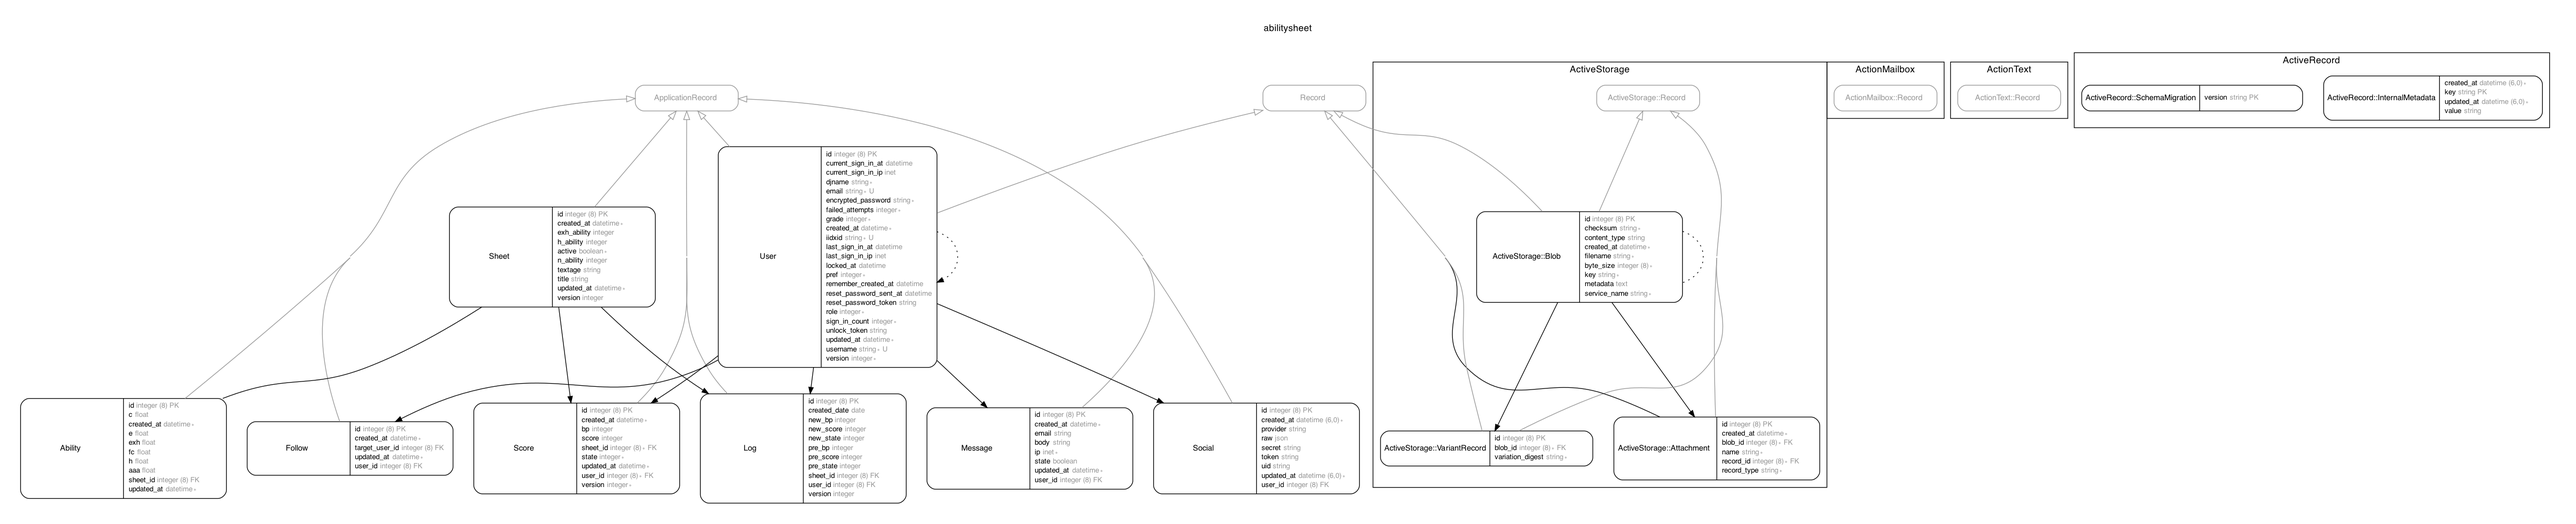
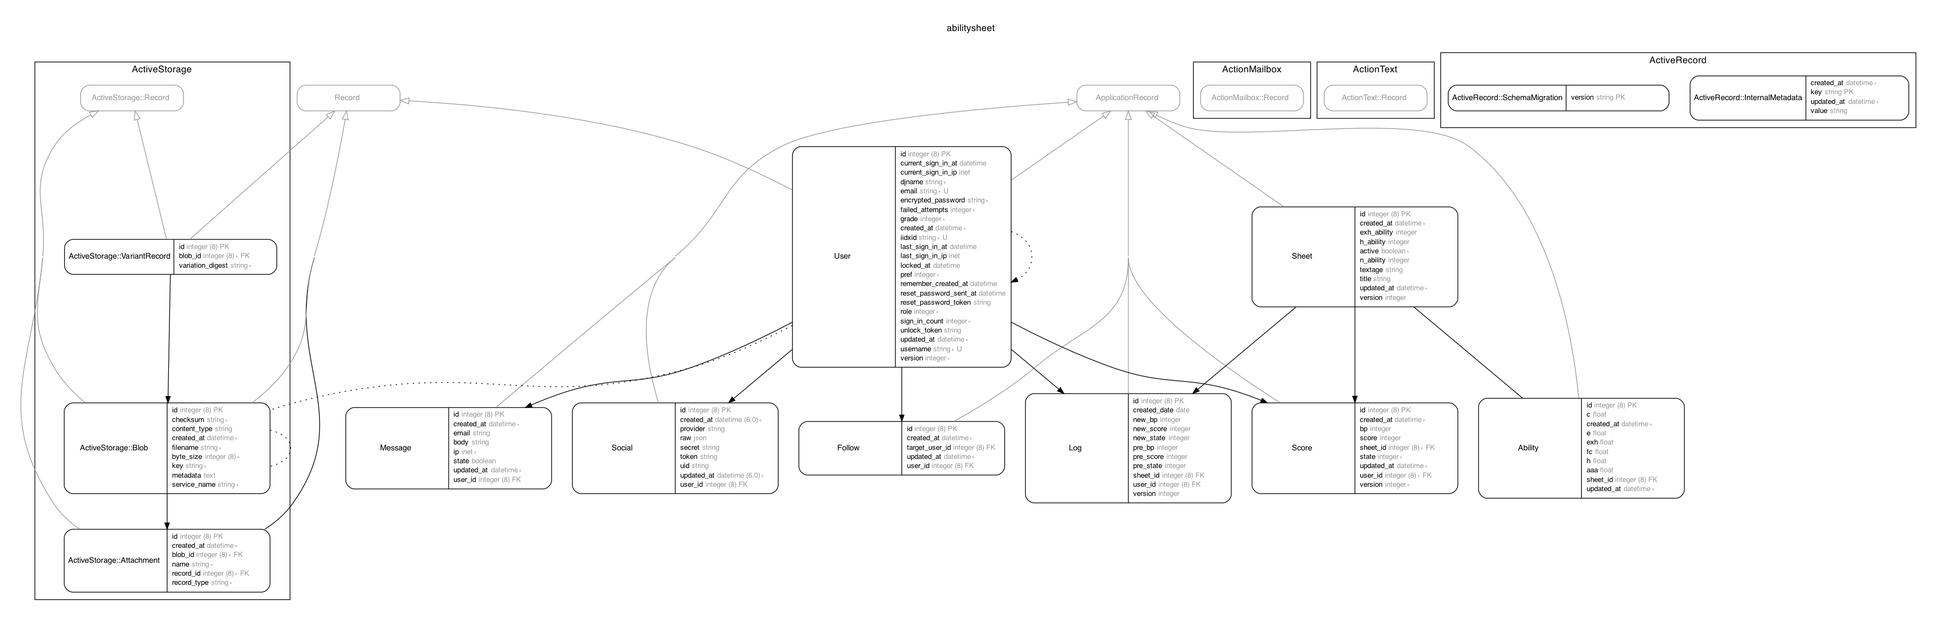
[#1475] [command] rails db:migrate

diff --git a/db/schema.rb b/db/schema.rb
@@ -10,8 +10,7 @@
 #
 # It's strongly recommended that you check this file into your version control system.
 
-ActiveRecord::Schema[6.1].define(version: 2020_12_26_130258) do
-
+ActiveRecord::Schema[7.0].define(version: 2022_09_21_122558) do
   # These are extensions that must be enabled in order to support this database
   enable_extension "plpgsql"
 
@@ -23,8 +22,8 @@ ActiveRecord::Schema[6.1].define(version: 2020_12_26_130258) do
     t.float "c"
     t.float "e"
     t.float "aaa"
-    t.datetime "created_at", null: false
-    t.datetime "updated_at", null: false
+    t.datetime "created_at", precision: nil, null: false
+    t.datetime "updated_at", precision: nil, null: false
     t.index ["sheet_id"], name: "index_abilities_on_sheet_id"
   end
 
@@ -33,7 +32,7 @@ ActiveRecord::Schema[6.1].define(version: 2020_12_26_130258) do
     t.string "record_type", null: false
     t.bigint "record_id", null: false
     t.bigint "blob_id", null: false
-    t.datetime "created_at", null: false
+    t.datetime "created_at", precision: nil, null: false
     t.index ["blob_id"], name: "index_active_storage_attachments_on_blob_id"
     t.index ["record_type", "record_id", "name", "blob_id"], name: "index_active_storage_attachments_uniqueness", unique: true
   end
@@ -44,8 +43,8 @@ ActiveRecord::Schema[6.1].define(version: 2020_12_26_130258) do
     t.string "content_type"
     t.text "metadata"
     t.bigint "byte_size", null: false
-    t.string "checksum", null: false
-    t.datetime "created_at", null: false
+    t.string "checksum"
+    t.datetime "created_at", precision: nil, null: false
     t.string "service_name", null: false
     t.index ["key"], name: "index_active_storage_blobs_on_key", unique: true
   end
@@ -59,8 +58,8 @@ ActiveRecord::Schema[6.1].define(version: 2020_12_26_130258) do
   create_table "follows", force: :cascade do |t|
     t.bigint "user_id"
     t.bigint "target_user_id"
-    t.datetime "created_at", null: false
-    t.datetime "updated_at", null: false
+    t.datetime "created_at", precision: nil, null: false
+    t.datetime "updated_at", precision: nil, null: false
     t.index ["user_id", "target_user_id"], name: "index_follows_on_user_id_and_target_user_id", unique: true
   end
 
@@ -86,8 +85,8 @@ ActiveRecord::Schema[6.1].define(version: 2020_12_26_130258) do
     t.inet "ip", null: false
     t.bigint "user_id"
     t.boolean "state", default: false
-    t.datetime "created_at", null: false
-    t.datetime "updated_at", null: false
+    t.datetime "created_at", precision: nil, null: false
+    t.datetime "updated_at", precision: nil, null: false
     t.index ["user_id"], name: "index_messages_on_user_id"
   end
 
@@ -98,8 +97,8 @@ ActiveRecord::Schema[6.1].define(version: 2020_12_26_130258) do
     t.bigint "sheet_id", null: false
     t.bigint "user_id", null: false
     t.integer "version", null: false
-    t.datetime "created_at", null: false
-    t.datetime "updated_at", null: false
+    t.datetime "created_at", precision: nil, null: false
+    t.datetime "updated_at", precision: nil, null: false
     t.index ["sheet_id"], name: "index_scores_on_sheet_id"
     t.index ["updated_at"], name: "index_scores_on_updated_at"
     t.index ["user_id", "version", "updated_at"], name: "index_scores_on_user_id_and_version_and_updated_at"
@@ -114,8 +113,8 @@ ActiveRecord::Schema[6.1].define(version: 2020_12_26_130258) do
     t.integer "version"
     t.boolean "active", default: true, null: false
     t.string "textage"
-    t.datetime "created_at", null: false
-    t.datetime "updated_at", null: false
+    t.datetime "created_at", precision: nil, null: false
+    t.datetime "updated_at", precision: nil, null: false
     t.integer "exh_ability"
   end
 
@@ -126,8 +125,8 @@ ActiveRecord::Schema[6.1].define(version: 2020_12_26_130258) do
     t.string "token"
     t.string "uid"
     t.bigint "user_id"
-    t.datetime "created_at", precision: 6, null: false
-    t.datetime "updated_at", precision: 6, null: false
+    t.datetime "created_at", null: false
+    t.datetime "updated_at", null: false
     t.index ["user_id", "provider"], name: "index_socials_on_user_id_and_provider", unique: true
   end
 
@@ -136,11 +135,11 @@ ActiveRecord::Schema[6.1].define(version: 2020_12_26_130258) do
     t.string "username", default: "", null: false
     t.string "encrypted_password", default: "", null: false
     t.string "reset_password_token"
-    t.datetime "reset_password_sent_at"
-    t.datetime "remember_created_at"
+    t.datetime "reset_password_sent_at", precision: nil
+    t.datetime "remember_created_at", precision: nil
     t.integer "sign_in_count", default: 0, null: false
-    t.datetime "current_sign_in_at"
-    t.datetime "last_sign_in_at"
+    t.datetime "current_sign_in_at", precision: nil
+    t.datetime "last_sign_in_at", precision: nil
     t.inet "current_sign_in_ip"
     t.inet "last_sign_in_ip"
     t.string "iidxid", null: false
@@ -151,9 +150,9 @@ ActiveRecord::Schema[6.1].define(version: 2020_12_26_130258) do
     t.integer "role", default: 0, null: false
     t.integer "failed_attempts", default: 0, null: false
     t.string "unlock_token"
-    t.datetime "locked_at"
-    t.datetime "created_at", null: false
-    t.datetime "updated_at", null: false
+    t.datetime "locked_at", precision: nil
+    t.datetime "created_at", precision: nil, null: false
+    t.datetime "updated_at", precision: nil, null: false
     t.index ["iidxid"], name: "index_users_on_iidxid", unique: true
     t.index ["reset_password_token"], name: "index_users_on_reset_password_token", unique: true
     t.index ["unlock_token"], name: "index_users_on_unlock_token", unique: true
